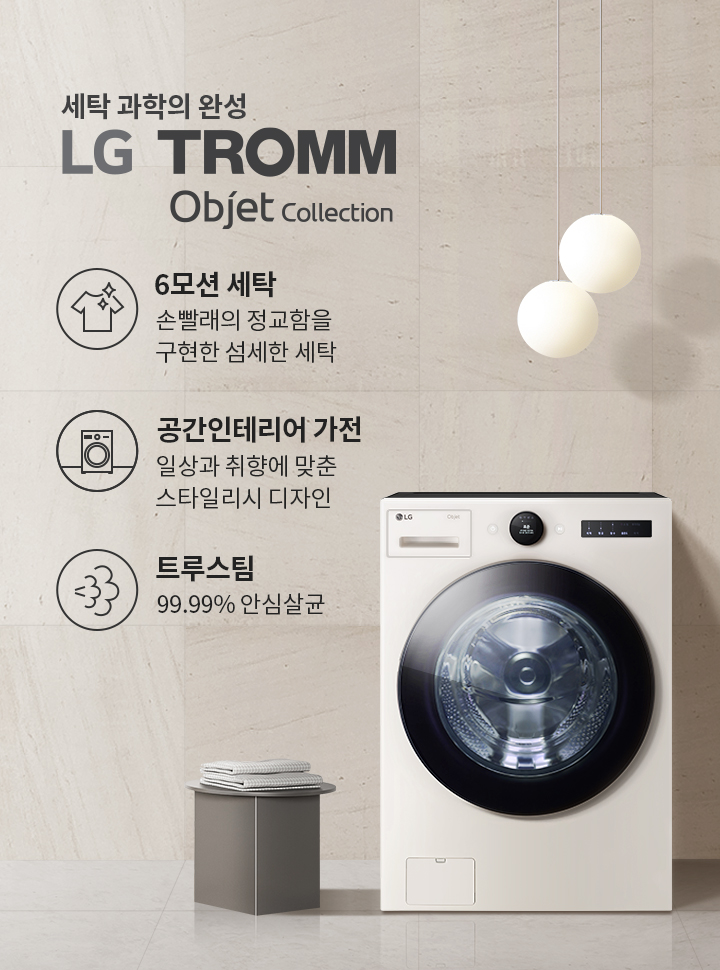
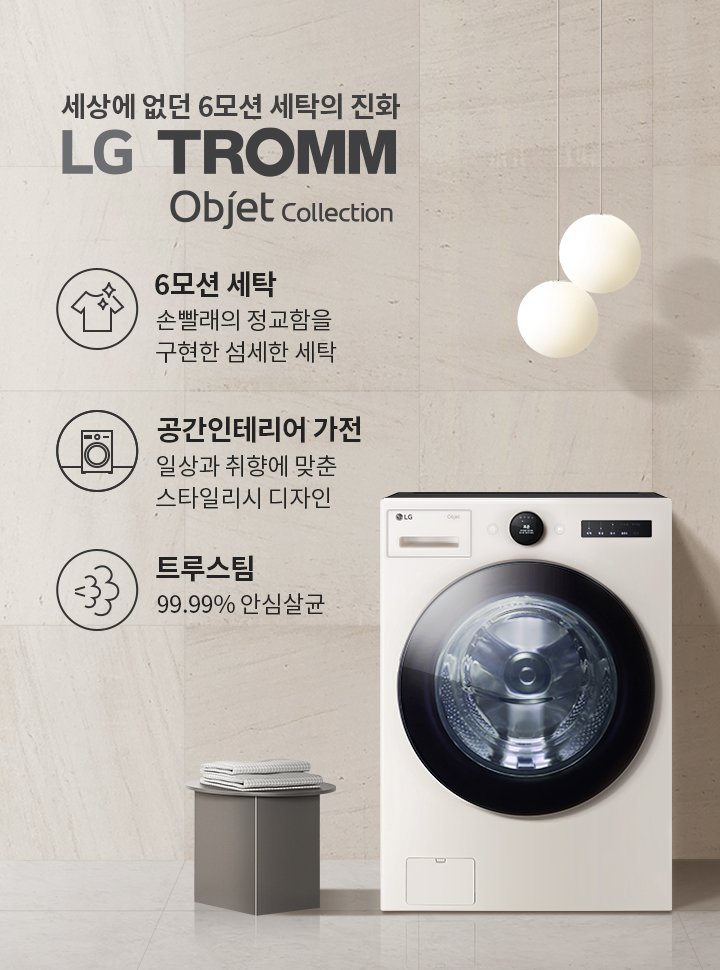
erkjwelkrewlkr

Changed region(s): [[0.1222, 0.0928, 0.55, 0.1237]]

diff --git a/images/washing-machines/md_new/usp2/md_new_local.html b/images/washing-machines/md_new/usp2/md_new_local.html
@@ -114,7 +114,7 @@
 								<img src="./img_scene00_pc.jpg" alt="" class="pc-only">
 								<img src="./img_scene00_mo.jpg" alt="" class="mo-only">
 								<p class="hidden">
-									세탁 과학의 완성 LG TROMMThinQ 세탁기
+									세상에 없던 6모션 세탁의 진화 LG TROMM Objet collection 세탁기
 									- 6모션 세탁 : 손빨래의 정교함을 구현한 섬세한 세탁
 									- 공간 인테리어 가전 : 일상과 취향에 맞춘 스타일리시 디자인
 									- 트루스팀 : 99.99% 안심살균
@@ -370,7 +370,7 @@
 								<img src="./img_scene02_2_pc.jpg" alt="" class="pc-only">
 								<img src="./img_scene02_2_mo.jpg" alt="" class="mo-only">
 								<p class="hidden">
-									인공지능세탁코스 : 세탁물에 따라 세탁 시간과 헹굼 횟수까지 알아서 맞춤 조절
+									인공지능세탁코스 : 세탁물에 따라 세탁 시간과 헹굼 횟수까지 알아서 맞춤 조절 / 오염도 감지 → 헹굼 추가
 								</p>
                             </div>      
 						</div>
@@ -814,7 +814,7 @@
 	
 	
 	
-<!-- #### Scene07 : 초강력 5방향 터보샷 ### -->
+<!-- #### Scene07 : 5방향 터보샷+ ### -->
 <!-- iw_component : KRC0035 / 하단여백없음 / align-left / 우측이미지 / m-hdline-top (모바일 타이틀 상단) -->
 <div class="iw_component" id="">
 	<!-- component-wrap -->
@@ -826,7 +826,7 @@
 				<div class="inner">
 					<!-- text-wrap -->
 					<div class="text-wrap side-left-text">
-						<strong class="small-title fc-dark-gray">초강력 5방향 터보샷</strong>
+						<strong class="small-title fc-dark-gray">5방향 터보샷+</strong>
 						<div class="title" id=""><h2>물은 물론 시간까지<br>절약하는 강력한 물살</h2></div>
 						<div class="text font-regular">
 							상하좌우 5방향 터보샷+로 코스에 따라<br>세기와 방향을 자동 조절해 시간을 절약하고 <br class="mo-only">물도 절약해 <br class="pc-only">30분만에 세탁을 완료합니다.
@@ -890,7 +890,7 @@
 	<!-- //component-wrap -->
 </div>
 <!-- //iw_component : KRC0035 -->
-<!-- #### Scene07 : 초강력 5방향 터보샷 ### -->
+<!-- #### Scene07 : 5방향 터보샷+ ### -->
 
 	
 	
